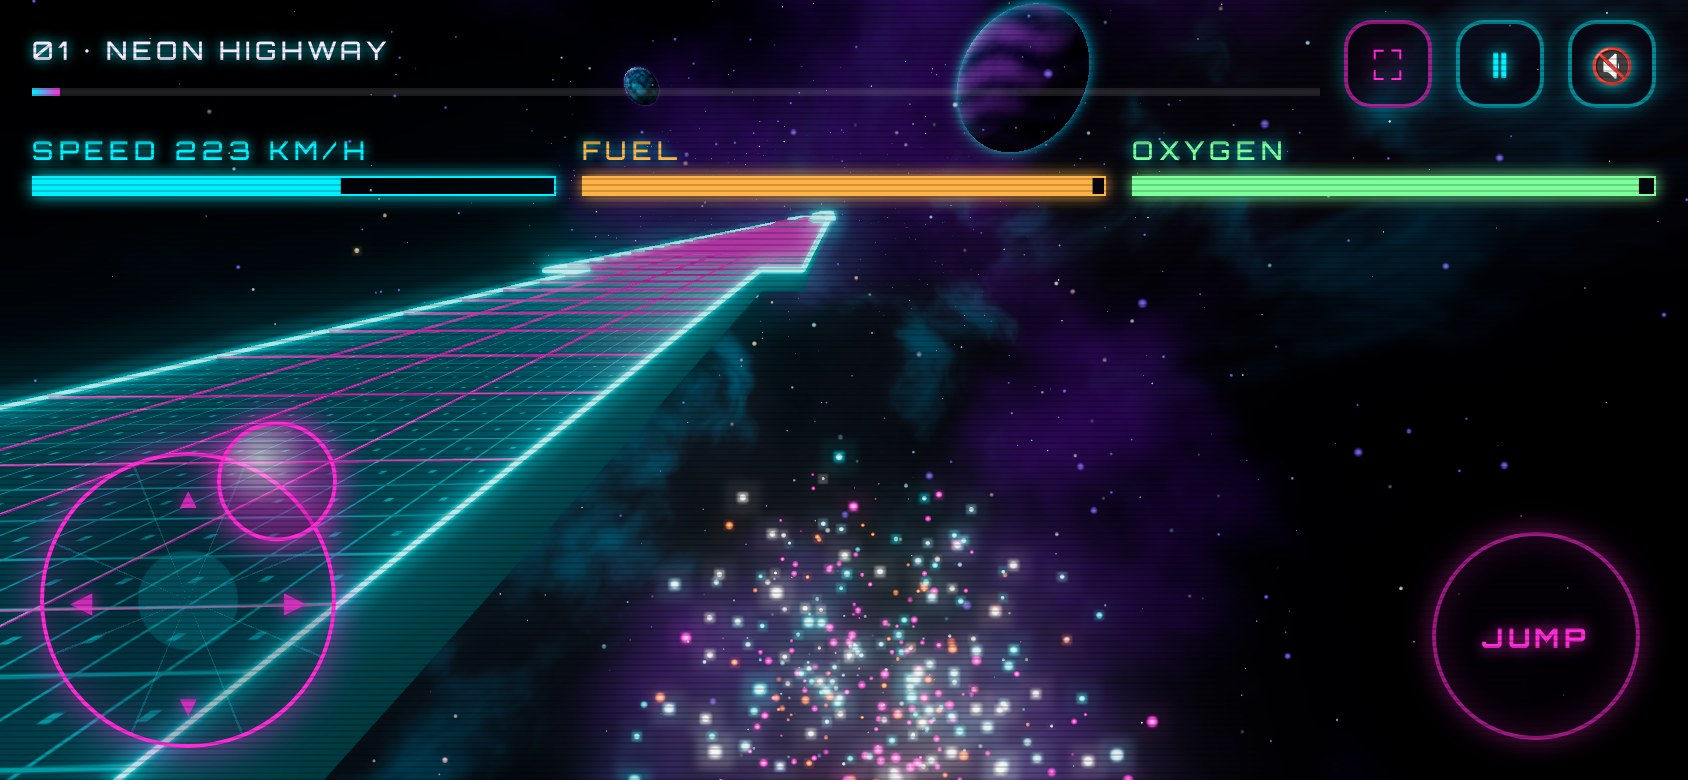
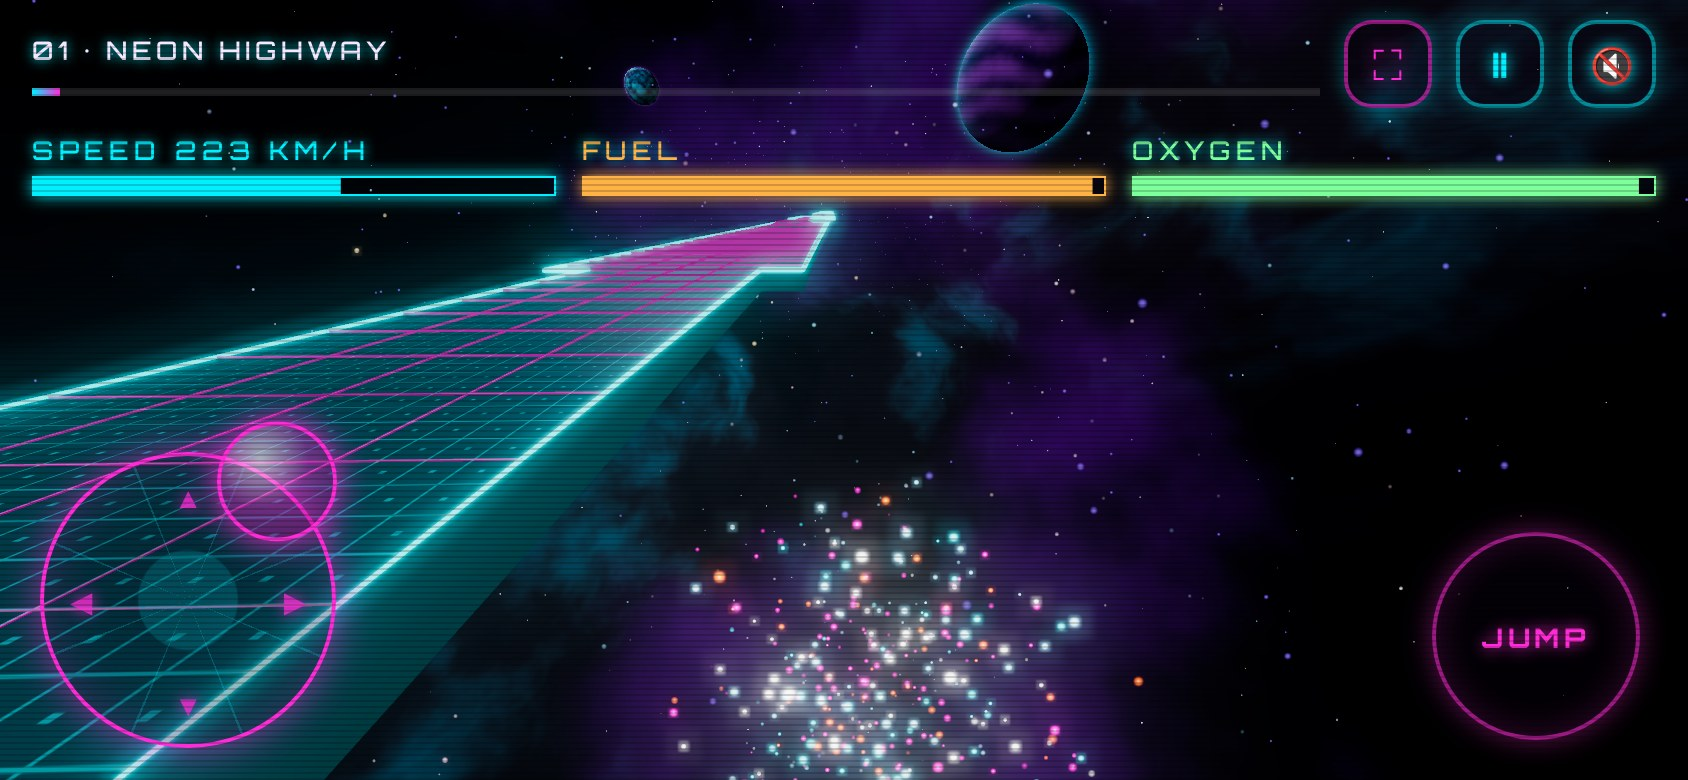
Support phones held upright instead of asking to rotate
Drop the rotate prompt. Upright, the buttons take a row on top with the HUD and
menus below, the pads scale with the width, and the camera widens its vertical
field of view so the track keeps room at the sides. The phone screenshots now
cover both ways.

Changed region(s): [[0.3389, 0.5846, 0.7085, 1.0]]

diff --git a/tests/phone_screenshots.py b/tests/phone_screenshots.py
@@ -6,12 +6,15 @@ from __future__ import annotations
 
 import threading
 
-from playwright.sync_api import Page, ViewportSize, sync_playwright
+from playwright.sync_api import Browser, Page, ViewportSize, sync_playwright
 
 from synthride.server.game_server import GameServer
 from tests.screenshots import OUT, snap
 
-VIEWPORT = ViewportSize(width=844, height=390)  # a phone held sideways
+VIEWPORTS = {
+    "": ViewportSize(width=844, height=390),
+    "-portrait": ViewportSize(width=390, height=844),
+}  # held both ways
 PROGRESS = 2.0  # percent of the track to ride before the in-game screenshot
 
 
@@ -28,24 +31,31 @@ def push_stick(page: Page, dx: float, dy: float) -> None:
 
 
 def take(url: str) -> None:
-    """Tap through the title to the level select, then ride the first level, taking a screenshot of each."""
+    """Tap through the title to the level select, then ride the first level, taking a screenshot of each, per way."""
     with sync_playwright() as playwright:
         browser = playwright.chromium.launch(args=["--enable-unsafe-swiftshader"])
-        page = browser.new_page(viewport=VIEWPORT, device_scale_factor=2, is_mobile=True, has_touch=True)
-        page.goto(url)
-        page.wait_for_selector("#loading", state="detached", timeout=60_000)
-        page.add_style_tag(content="#hud-fps { visibility: hidden; }")  # software WebGL makes it read ~10 FPS
-        page.tap("#menu")  # title -> level select
-        page.wait_for_function("document.body.classList.contains('touch')")  # the tap turned touch mode on
-        page.wait_for_selector('[data-level="0"]')
-        page.wait_for_timeout(500)
-        snap(page, "screenshot-mobile-menu.jpg")
-        page.tap('[data-level="0"]')
-        page.wait_for_selector("#hud:not([hidden])")
-        push_stick(page, 0.6, -0.8)  # accelerating, steering right
-        page.wait_for_function(f"parseFloat(document.getElementById('hud-progress').style.width) >= {PROGRESS}")
-        snap(page, "screenshot-mobile.jpg")
+        for suffix, viewport in VIEWPORTS.items():
+            ride(browser, url, viewport, suffix)
         browser.close()
+
+
+def ride(browser: Browser, url: str, viewport: ViewportSize, suffix: str) -> None:
+    """Take the level select and in-game screenshots on a phone of ``viewport``."""
+    page = browser.new_page(viewport=viewport, device_scale_factor=2, is_mobile=True, has_touch=True)
+    page.goto(url)
+    page.wait_for_selector("#loading", state="detached", timeout=60_000)
+    page.add_style_tag(content="#hud-fps { visibility: hidden; }")  # software WebGL makes it read ~10 FPS
+    page.tap("#menu")  # title -> level select
+    page.wait_for_function("document.body.classList.contains('touch')")  # the tap turned touch mode on
+    page.wait_for_selector('[data-level="0"]')
+    page.wait_for_timeout(500)
+    snap(page, f"screenshot-mobile{suffix}-menu.jpg")
+    page.tap('[data-level="0"]')
+    page.wait_for_selector("#hud:not([hidden])")
+    push_stick(page, 0.6, -0.8)  # accelerating, steering right
+    page.wait_for_function(f"parseFloat(document.getElementById('hud-progress').style.width) >= {PROGRESS}")
+    snap(page, f"screenshot-mobile{suffix}.jpg")
+    page.close()
 
 
 def main() -> None:

diff --git a/src/synthride/server/html_page_builder.py b/src/synthride/server/html_page_builder.py
@@ -118,7 +118,7 @@ body::after { content: ""; position: fixed; inset: 0; pointer-events: none; z-in
 #loading { z-index: 4; }
 .level-list li { cursor: pointer; }
 /* Touch: shown once the page has seen a touch, which adds the "touch" class to the body */
-#touch, #mute, #rotate, .menu-back, .touch-text { display: none; }
+#touch, #mute, .menu-back, .touch-text { display: none; }
 #touch { position: fixed; inset: 0; z-index: 2; pointer-events: none; }
 #touch, #touch button, #touch .stick, #mute { touch-action: none; user-select: none; -webkit-user-select: none;
   -webkit-touch-callout: none; -webkit-tap-highlight-color: transparent; }
@@ -184,8 +184,18 @@ body.touch #fullscreen { display: block; top: max(10px, env(safe-area-inset-top)
 body.touch #hud:not([hidden]) ~ #fullscreen { right: calc(max(16px, env(safe-area-inset-right)) + 112px); }
 body:not(.touch) .hud-top, body:not(.touch) .progress { margin-right: 56px; }
 body.fullscreen #fullscreen { color: var(--pink); border-color: rgba(255,43,214,0.6); }
-#rotate { z-index: 6; }
-@media (orientation: portrait) { body.touch #rotate { display: flex; } }
+/* Held upright, the buttons take a row of their own on top, and the HUD and menus start below it */
+@media (orientation: portrait) {
+  body.touch #hud { padding-top: calc(max(10px, env(safe-area-inset-top)) + 54px); }
+  body.touch .hud-top, body.touch .progress { margin-right: 0; }
+  body.touch .hud-bottom { top: calc(max(10px, env(safe-area-inset-top)) + 54px + 3.4rem); left: 16px; gap: 0.5rem; }
+  body.touch .overlay { padding-top: calc(max(10px, env(safe-area-inset-top)) + 54px); justify-content: flex-start; }
+  body.touch .stick { width: min(150px, 38vw); }
+  body.touch .pad-jump { width: min(104px, 27vw); }
+  body.touch .level-columns { width: 100%; padding: 0 16px; box-sizing: border-box; }
+  body.touch .level-list li { min-height: 44px; display: flex; align-items: center; }
+  body.touch .legend li { white-space: normal; }
+}
 @media (max-height: 500px) {
   body.touch .overlay { gap: 0.7rem; padding-top: max(16px, env(safe-area-inset-top)); }
   body.touch .level-columns { display: grid; grid-template-columns: repeat(auto-fill, minmax(15rem, 1fr));
@@ -220,7 +230,6 @@ body.fullscreen #fullscreen { color: var(--pink); border-color: rgba(255,43,214,
 <div id="editor" hidden></div>
 <button id="mute" class="touch-button" data-press="KeyM" aria-label="Mute">&#128263;</button>
 <button id="fullscreen" aria-label="Full screen (F)" title="Full screen (F)">&#9974;</button>
-<div id="rotate" class="overlay"><h2 class="headline">ROTATE YOUR PHONE &#10226;</h2></div>
 <div id="loading" class="overlay">
   <h1 class="logo">SYNTHRIDE</h1>
   <p class="subtitle" id="loading-status">Booting Python&hellip;</p>

diff --git a/src/synthride/web/rendering/scene_renderer.py b/src/synthride/web/rendering/scene_renderer.py
@@ -105,6 +105,16 @@ class SceneRenderer:
         self.camera.updateProjectionMatrix()
         self._lines.resize(width, height)
 
+    def _vertical_fov(self, fov: float) -> float:
+        """Return ``fov``, widened for a window taller than it is wide so the track keeps room at the sides.
+
+        The field of view is vertical: held upright the view would shrink to a slit. The horizontal angle is kept
+        halfway, in tangent terms, between the landscape's and the square's.
+        """
+        if self.camera.aspect >= 1:
+            return fov
+        return math.degrees(2 * math.atan(math.tan(math.radians(fov) / 2) / math.sqrt(self.camera.aspect)))
+
     def add(self, item: JsObject) -> None:
         """Add ``item`` to the scene."""
         self.scene.add(item)
@@ -151,7 +161,7 @@ class SceneRenderer:
         self._look = (x, y + 0.3, z - self.LOOK_AHEAD)
         self.camera.position.set(*self._eye)
         self.camera.lookAt(*self._look)
-        self.camera.fov = self.BASE_FOV + self.SPEED_FOV * speed_fraction
+        self.camera.fov = self._vertical_fov(self.BASE_FOV + self.SPEED_FOV * speed_fraction)
         self.camera.updateProjectionMatrix()
 
     def overlook(self, x: float, z: float, ground: float) -> None:
@@ -161,7 +171,7 @@ class SceneRenderer:
         self._camera_position = list(self._eye)
         self.camera.position.set(*self._eye)
         self.camera.lookAt(*self._look)
-        self.camera.fov = self.BASE_FOV
+        self.camera.fov = self._vertical_fov(self.BASE_FOV)
         self.camera.updateProjectionMatrix()
 
     def reflect_on(self, ship: Ship, deck: float | None) -> None:

diff --git a/tests/web/rendering/test_scene_renderer.py b/tests/web/rendering/test_scene_renderer.py
@@ -128,3 +128,16 @@ def test_no_reflection_over_a_gap() -> None:
     _, _, renderer = make_renderer()
     renderer.reflect_on(Ship(Vector3(4, 0.5, 10)), None)
     assert renderer.reflection.strength == 0
+
+
+def test_camera_widens_its_field_of_view_when_the_window_is_taller_than_wide() -> None:
+    bridge, _, renderer = make_renderer()
+    ship = Ship(Vector3(4, 0.5, 10))
+    renderer.follow(ship, speed_fraction=0, dt=0.016, snap=True)
+    assert renderer.camera.fov == SceneRenderer.BASE_FOV
+    bridge.window.innerWidth, bridge.window.innerHeight = 400, 800
+    bridge.window.dispatch("resize")
+    renderer.follow(ship, speed_fraction=0, dt=0.016, snap=True)
+    assert SceneRenderer.BASE_FOV < renderer.camera.fov < 120
+    renderer.overlook(0, 0, 0)
+    assert SceneRenderer.BASE_FOV < renderer.camera.fov < 120

diff --git a/tests/server/test_html_page_builder.py b/tests/server/test_html_page_builder.py
@@ -33,7 +33,7 @@ def test_page_has_the_touch_controls() -> None:
     assert "data-knob" in page
     for code in ("Escape", "KeyM"):
         assert f'data-press="{code}"' in page
-    for element_id in ("touch", "mute", "rotate"):
+    for element_id in ("touch", "mute"):
         assert f'id="{element_id}"' in page
     assert page.index('id="hud"') < page.index('id="touch"')  # the pads show with the HUD: #hud ~ #touch
     assert page.index('id="mute"') < page.index('id="loading"')  # the loading screen covers it
